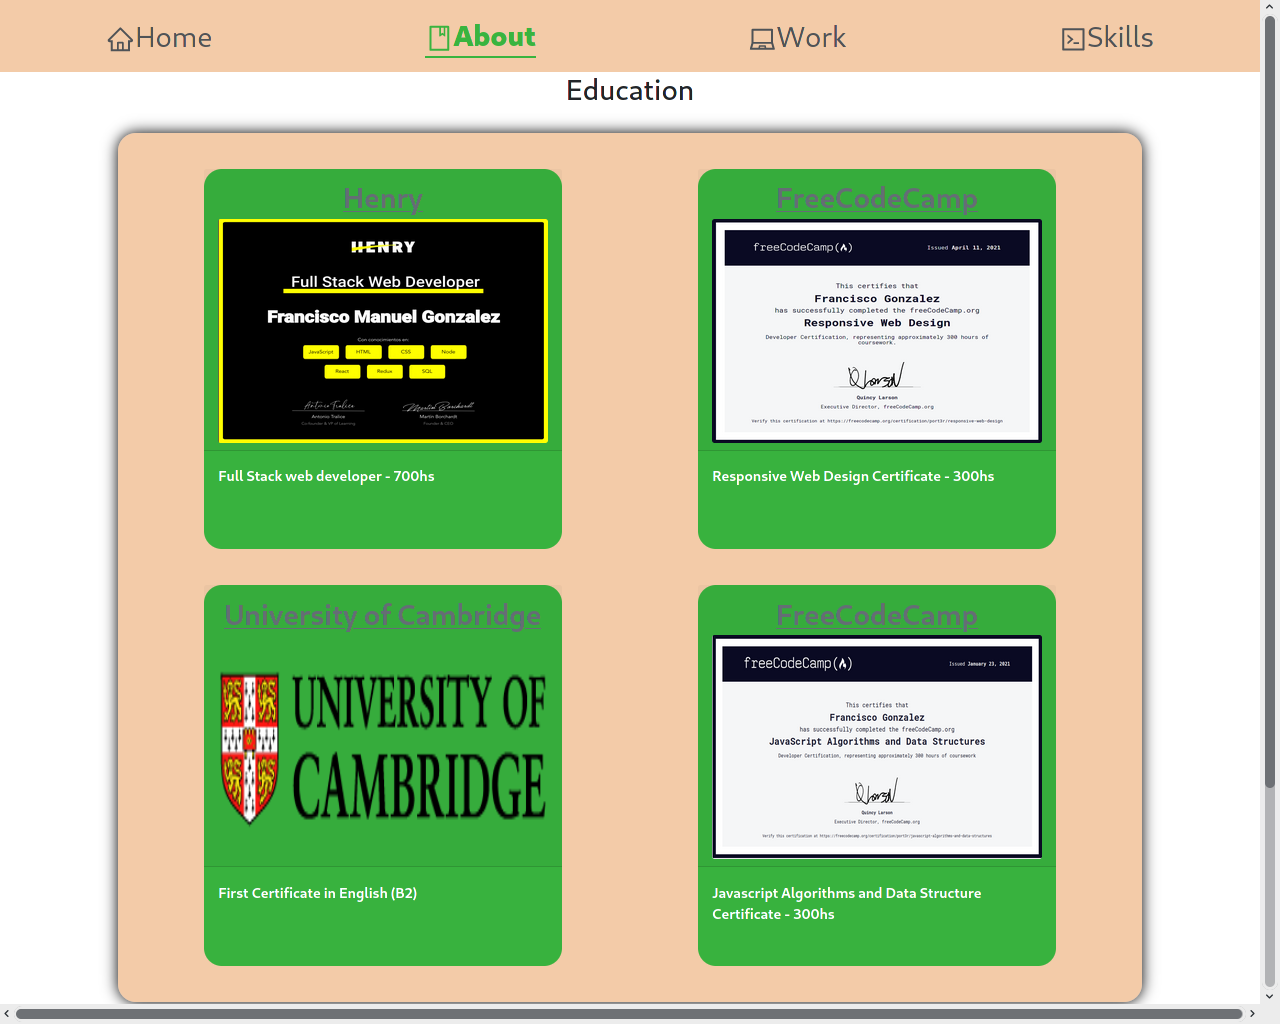
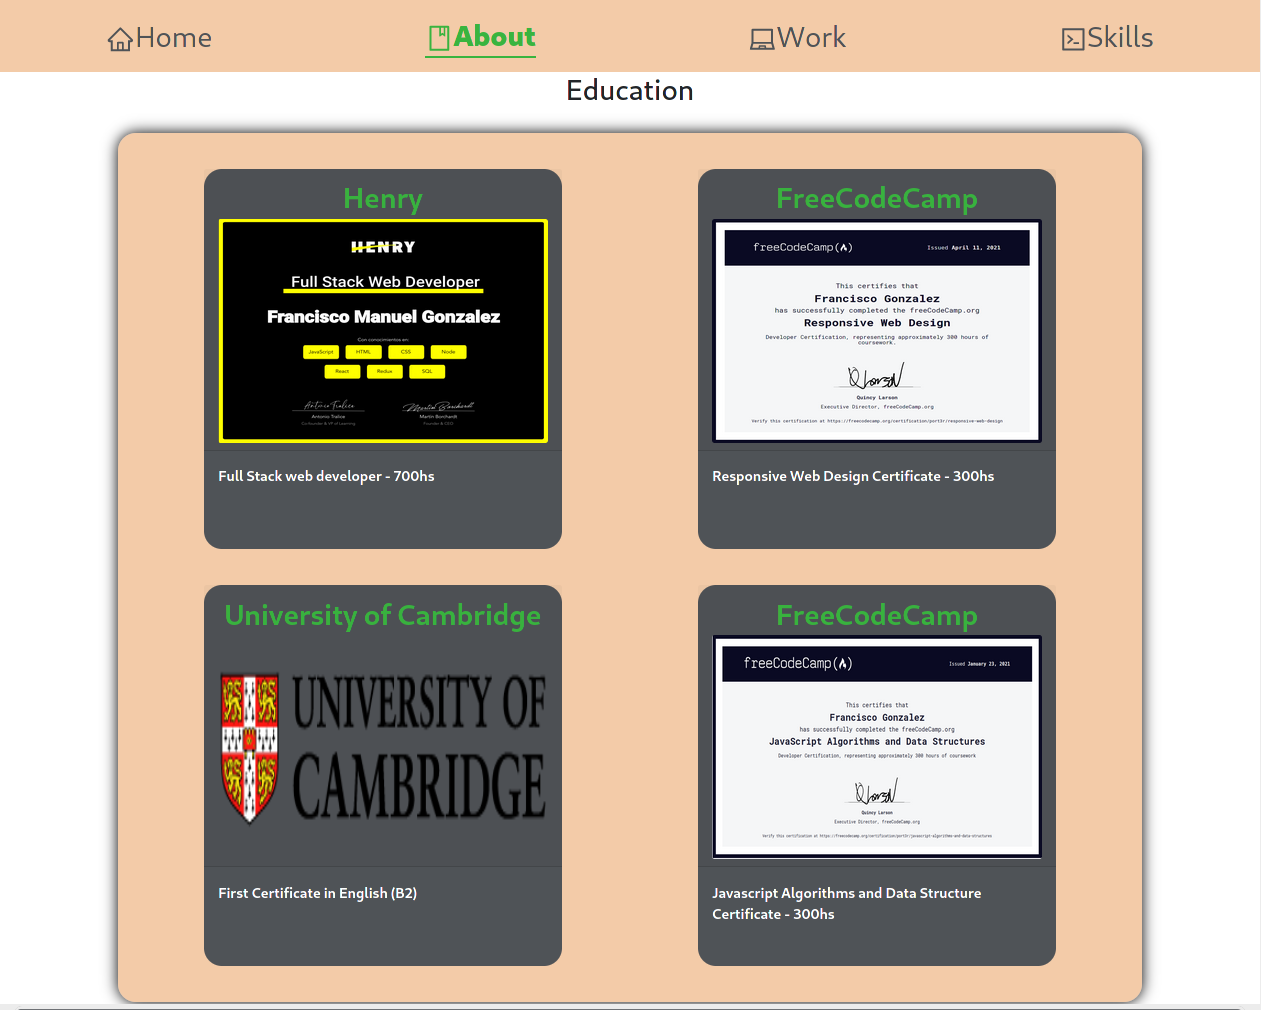
work section, edit card styles, proyect component

diff --git a/src/pages/work/Work.jsx b/src/pages/work/Work.jsx
@@ -1,62 +1,73 @@
-// import React from 'react';
+import React from 'react';
 import './workStyles.css';
-import catGif from './giphy.gif'
 import { Col, Row } from 'react-bootstrap'
+import Proyect from '../../components/Proyect'
 
-function Work() {
+
+const Work = () => {
+
+    const BBCimg = 'https://raw.githubusercontent.com/franciscoG98/BreakingBadApp2/main/src/img/home.png';
+    const BBClink = 'https://franciscog98.github.io/BreakingBadApp2/';
+    const BBCrepo = 'https://github.com/franciscoG98/BreakingBadApp2';
+
+    const Moviesimg = 'https://raw.githubusercontent.com/franciscoG98/movies-app/main/media/homeScreen.png';
+    const Movieslink = 'https://movies-app-fg.vercel.app/';
+    const Moviesrepo = 'https://github.com/franciscoG98/movies-app';
+    
+    
+
     return (
         
         <div className='workContainer'>
-            <Col>
-                <Row>
-                    <h3>This section is under construction</h3>
-                </Row>
-                <Row>
-                    <Col></Col>
-                    <Col>
-                        <img className='construction' src={catGif} alt="crazy cat coding"/>
-                    </Col>
-                    <Col></Col>
-                </Row>
-            </Col>
+
+            <Row className='cardRow'>
+                <Col xs={10} sm={8} md={5} lg={5}>
+                    <Proyect
+                        title={'Breaking Bad'}
+                        image={BBCimg}
+                        imgAlt={'breaking bad cast site preview'}
+                        repo={BBCrepo}
+                        siteLink={BBClink}
+                        description={'Static web page where you cand find you favorite characters from Breaking Bad. Stack: react, css, gh-pages'}
+                    />
+                </Col>
+
+                <Col xs={10} sm={8} md={5} lg={5}>
+                    <Proyect
+                        title={'Movies App'}
+                        image={Moviesimg}
+                        imgAlt={'movies app site preview'}
+                        repo={Moviesrepo}
+                        siteLink={Movieslink}
+                        description={'Static web page where you cand find you favorite movies and series. Stack: react, css, OMDB Api, vercel'}
+                    />
+                </Col>
+
+                {/* <Col xs={10} sm={8} md={5} lg={5}>
+                    <Proyect
+                        title={'Breaking Bad Cast'}
+                        image={'https://github.com/franciscoG98/BreakingBadApp2/blob/main/src/img/home.png'}
+                        imgAlt={'breaking bad cast site preview'}
+                        repo={'https://github.com/franciscoG98/BreakingBadApp2'}
+                        // siteLink={}
+                        description={'static web page where you cand find you favorite characters from Breaking Bad'}
+                    />
+                </Col>
+
+                <Col xs={10} sm={8} md={5} lg={5}>
+                    <Proyect
+                        title={'Breaking Bad Cast'}
+                        image={'https://github.com/franciscoG98/BreakingBadApp2/blob/main/src/img/home.png'}
+                        imgAlt={'breaking bad cast site preview'}
+                        repo={'https://github.com/franciscoG98/BreakingBadApp2'}
+                        // siteLink={}
+                        description={'static web page where you cand find you favorite characters from Breaking Bad'}
+                    />
+                </Col> */}
+            </Row>
 
             
-            {/* <div className="boxx">
-                <h4>work title</h4>
-                <img src="#" alt="imagen"/>
-                <div className="moreInfo">
-                    <span>repo</span>
-                    <br/>
-                    <span>deployed</span>
-                </div>
-            </div>
-            <div className="boxx">
-                <h4>work title</h4>
-                <img src="#" alt="imagen"/>
-                <div className="moreInfo">
-                    <span>repo</span>
-                    <br/>
-                    <span>deployed</span>
-                </div>
-            </div>
-            <div className="boxx">
-                <h4>work title</h4>
-                <img src="#" alt="imagen"/>
-                <div className="moreInfo">
-                    <span>repo</span>
-                    <br/>
-                    <span>deployed</span>
-                </div>
-            </div>
-            <div className="boxx">
-                <h4>work title</h4>
-                <img src="#" alt="imagen"/>
-                <div className="moreInfo">
-                    <span>repo</span>
-                    <br/>
-                    <span>deployed</span>
-                </div>
-            </div> */}
+          
         </div>
     )
 }

diff --git a/src/components/Proyect/Project.jsx b/src/components/Proyect/Project.jsx
@@ -1,0 +1,32 @@
+import React from 'react'
+import './proyectStyles.css'
+import { SiGithub } from "react-icons/si";
+import { BiLinkExternal } from "react-icons/bi";
+import { Col, Row } from 'react-bootstrap'
+
+const Card = ({ title, image, imgAlt, repo, siteLink, description }) => {
+    return (
+        <>
+
+            <div className="project-container">
+                <div className="project-header">
+                    <h2 className="project-title">{title}</h2>
+                    <img className="card-img" alt={imgAlt} src={image} />
+                </div>
+
+                <Row className="project-body">
+                    <Col>
+                        <a href={repo} target="_blank" rel="noopener noreferrer"><SiGithub size={35}/> Repo</a>
+                    </Col>
+                    <Col>
+                        <a href={siteLink} target="_blank" rel="noopener noreferrer"><BiLinkExternal size={35} />View Site</a>
+                    </Col>
+                    <p>{description}</p>
+                </Row>
+            </div>
+           
+        </>
+    )
+}
+
+export default Card

diff --git a/src/pages/work/workStyles.css b/src/pages/work/workStyles.css
@@ -1,24 +1,14 @@
 .workContainer {
+    background-color: rgba(227, 137, 59, 0.445);
+    border-radius: 20px;
+    box-shadow: 0 0 1rem rgba(0, 0, 0, 1.2);
     display: flex;
-    flex-direction: row;
-    width: 80%;
-    position: relative;
+    flex-direction: row;   
     margin: auto;
-    margin-bottom: 30px;
-    margin-top: 30px;
+    margin-top: 50px;
+    width: 80%;
 }
 
-.construction {
-    margin-top: 20px;
-    max-width: 800px;
-}
-
-.boxx {
-    background-color: #5B71BF;
-    display: flex;
-    flex-direction: column;
-    width: 100%;
-    border: 2px solid yellow;
-    justify-content: space-between;
-    margin: 10px;
+.cardRow {
+    justify-content: space-around;
 }

diff --git a/src/components/Proyect/proyectStyles.css b/src/components/Proyect/proyectStyles.css
@@ -1,0 +1,35 @@
+.project-container {
+    background: #4f5357;
+    border-radius: 20px;
+    margin: 20px;
+    padding: 15px;
+    align-items: center;
+    justify-content: space-between;
+}
+
+.project-header {
+    color: #38b23e;
+}
+
+.project-title {
+    font-weight: 700;
+}
+
+.project-body {
+    padding: 30px;
+}
+
+.project-body a {
+    color: #E3893B;
+    text-decoration: none;
+}
+
+.project-body a:hover {
+    color: #38b23e;
+    text-decoration: underline;
+    transition: 1s;
+}
+
+.project-body p {
+    color: #fff;
+}

diff --git a/src/components/Card/cardStyles.css b/src/components/Card/cardStyles.css
@@ -1,6 +1,6 @@
 .cardContainer {
     align-items: center;
-    background-color: rgb(56, 178, 62);
+    background-color: #4f5357;
     /* opacity: .95; */
     border-radius: 20px;
     justify-content: center;
@@ -15,7 +15,14 @@
 
 .subtitle {
     font-size: 2em;
-    color: #656d75;
+    color: #38b23e;
+    text-decoration: none;
+}
+
+.subtitle:hover {
+    font-size: 2em;
+    color: #38b23e;
+    text-decoration: underline;
 }
 
 .card-img {

diff --git a/src/components/Proyect/index.js b/src/components/Proyect/index.js
@@ -1,0 +1,1 @@
+export { default } from './Project.jsx'

diff --git a/README.md b/README.md
@@ -13,18 +13,22 @@ You can see it [here](https://franciscog98.github.io/portfolio/)
 <h3>SKILLS</h3>
 <img src='https://github.com/franciscoG98/portfolio/blob/master/public/img/skillsPic.png' alt='skills preview'/>
 
-<h3>CONTACT</h3>
-<img src='https://github.com/franciscoG98/portfolio/blob/master/public/img/contactPic.png' alt='contact preview'/>
+<h3>WORK</h3>
+<img src='https://github.com/franciscoG98/portfolio/blob/master/public/img/workPic.png' alt='work preview'/>
 
 
 # Tutorials/resources: 
 * [gh-pages deploy and domain](https://www.youtube.com/watch?v=SKXkC4SqtRk).
 * [navigation](https://youtu.be/VzWBLj_CfpE).
 * [theme](https://www.youtube.com/watch?v=_f036OpnuWo). This feature was taken off for simplicity, If you wanna see how it works it is in remake branch
-* [zoom image with css](http://www.corelangs.com/css/box/zoom.html).
 
-# What I've use
-I've done this with create-react-app, react-router-dom, react-icons and css
+# Stack:
+* [Create-react-app](https://reactjs.org/docs/create-a-new-react-app.html)
+* [ReactJS](https://reactjs.org/)
+* [React Bootstrap](https://react-bootstrap.github.io/)
+* [CSS](https://developer.mozilla.org/en-US/docs/Web/CSS)
+* [React Icons](https://react-icons.github.io/react-icons/)
+
 
 # Code
 To code you will need to have installed [node](https://nodejs.org/es/)and [npm](https://www.npmjs.com/) (I have node v15.11 and npm v7.6 but I think you can try with lts versions and it'll work)
@@ -37,5 +41,8 @@ npm start
 You can also fork this repository and publish your own portfolio
 
 # Build
-npm run build && npm run deploy
+This site is doplyed on Github-Pages.
 
+```
+npm run build && npm run deploy
+```
